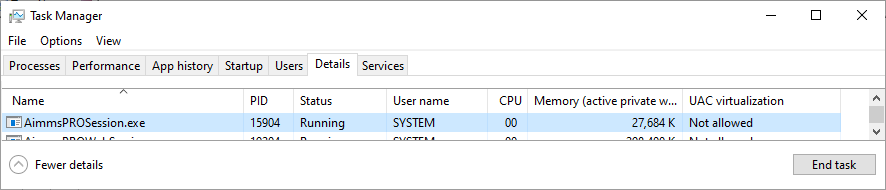
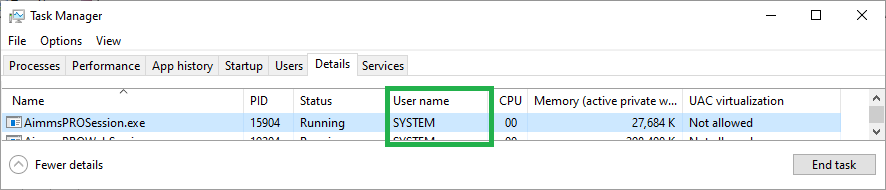
Sample model for #299

Changed region(s): [[0.4266, 0.4474, 0.579, 0.7895]]

diff --git a/Articles/299/299-change-account-pro.rst b/Articles/299/299-change-account-pro.rst
@@ -1,7 +1,20 @@
 How do I change the account AIMMS PRO is running on?
 =====================================================
 
-IMPORTANT: since the end goal is that you’re running on another account then the system account, it might be possible that this new account does not allow you access to resources you previously could; please consult with your system administrator if this is the case.
+By running a process using a particular account, resources can be acquired that are particular to that account. To make AIMMS jobs use such an account, we need to make the AIMMS PRO service run using that account. This article provides a detailed and verifiable step by step procedure to achieve just this.
+
+.. note:: since the end goal is that you’re running on another account then the system account, it might be possible that this new account does not allow you access to resources you previously could; please consult with your system administrator if this is the case.
+
+
+Start situation
+---------------
+
+AIMMS jobs are run on an AIMMS PRO server with the name ``AimmsPROSession.exe``. 
+
+.. image:: images/AimmsPROSession1.png
+    :align: center
+
+The default account for these jobs is ``SYSTEM``.
 
 Stop AIMMS PRO services
 ------------------------
@@ -61,7 +74,12 @@ Open up the services window, e.g. by hitting the windows button and typing ‘Se
 Verify by starting job
 ----------------------------------------
 
+Starting the same job again, and opening up the task manager, details tab:
 
+.. image:: images/AimmsPROSession1b.png
+    :align: center
+
+The account used for AIMMS jobs is now ``chris``.
 
 
 
